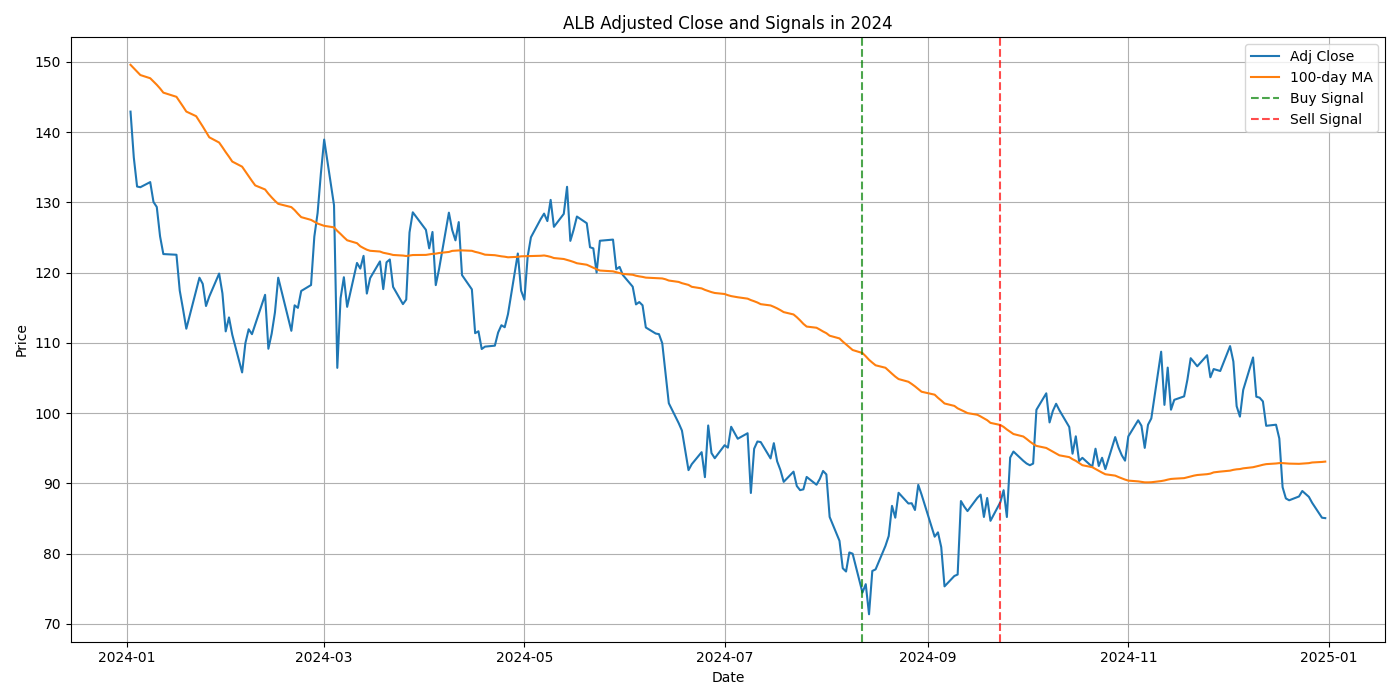
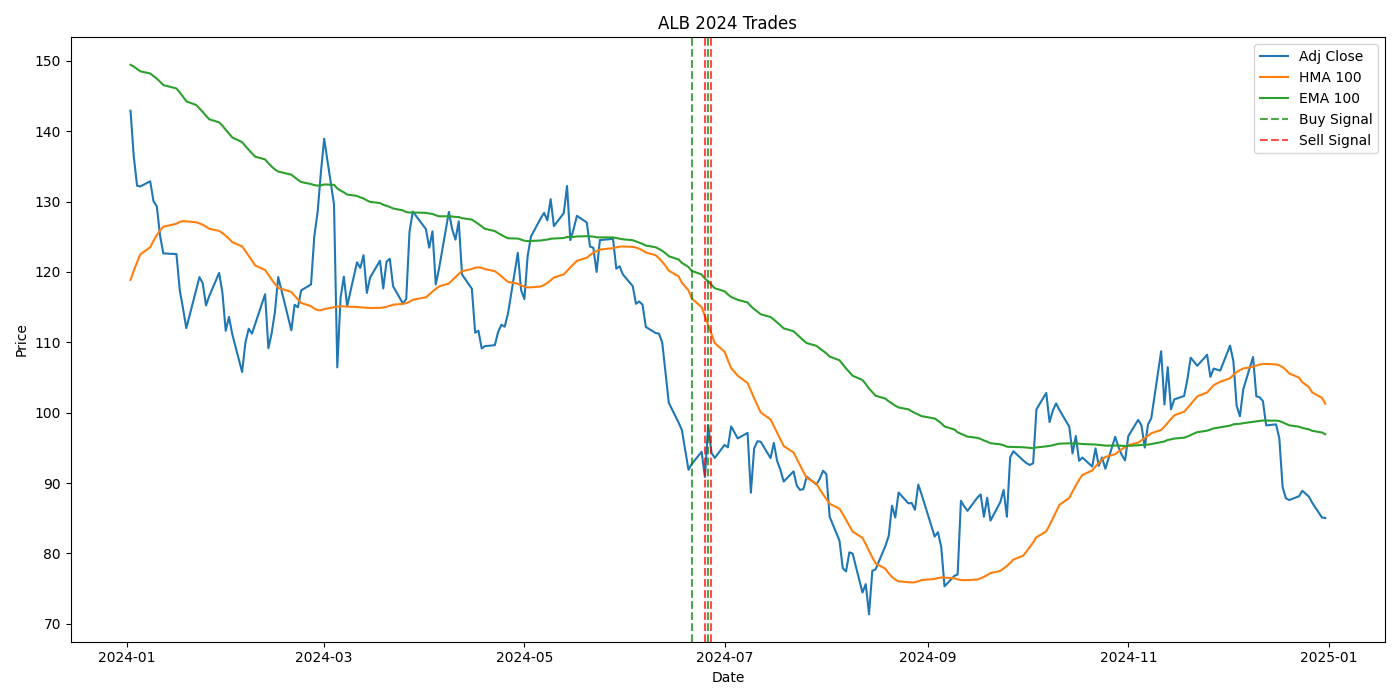
Functional

diff --git a/main.py b/main.py
@@ -73,9 +73,6 @@ def play():
         lower = sma - num_std * std
         return upper, lower
 
-    # Strong months for calendar filter
-    strong_months = {4, 11}
-
     all_trades = []
 
     # Process each stock file
@@ -140,15 +137,13 @@ def play():
             if position is None:
                 # Buy Conditions:
                 price_discount = (hma_100 - adj_close) / hma_100 if hma_100 != 0 else 0
-                cond_price = price_discount >= 0.3
+                cond_price = price_discount >= 0.10
                 cond_rsi = rsi < 30
-                cond_macd = (macd_hist > 0) and (prev_macd_hist <= 0)
-                cond_stoch = (prev_k < prev_d) and (stoch_k > stoch_d) and (stoch_k < 20)
-                cond_vol = volume > 1.5 * avg_vol
-                cond_volatility = (atr / adj_close < 0.03) and (bb_lower < adj_close < bb_upper)
-                cond_month = month in strong_months
+                cond_stoch = (prev_k < prev_d) and (stoch_k > stoch_d) and (stoch_k < 40)
+                cond_vol = volume > 1.2 * avg_vol
+                cond_volatility = (atr / adj_close < 0.05) and (bb_lower < adj_close < bb_upper)
 
-                buy_signal = all([cond_price, cond_rsi, cond_macd, cond_stoch, cond_vol, cond_volatility, cond_month])
+                buy_signal = all([cond_price,cond_volatility,cond_vol,cond_stoch,cond_rsi])
 
                 if buy_signal:
                     position = {
@@ -169,11 +164,11 @@ def play():
                     max_price = adj_close
 
                 cond_price_sell = adj_close > ema_100
-                cond_trailing_stop = adj_close < 0.95 * max_price
+                cond_trailing_stop = adj_close < 0.96 * max_price
                 cond_atr_stop = adj_close < position['Stop Loss']
-                cond_rsi_sell = rsi > 70
+                cond_rsi_sell = rsi > 65
                 cond_macd_sell = (macd_hist < 0) and (prev_macd_hist >= 0)
-                cond_max_days = holding_days > 40
+                cond_max_days = holding_days > 60
                 cond_eoy = (i == len(year_data) - 1)
 
                 sell_signal = any([
@@ -236,9 +231,32 @@ def play():
     # Compile all trades into DataFrame
     trades_df = pd.DataFrame(all_trades)
     if not trades_df.empty:
-        trades_df.sort_values('Buy Date', inplace=True)
-        trades_df.to_csv(os.path.join(results_dir, f"{theYear}_perf.csv"), index=False)
-        print(f"Saved results to {os.path.join(results_dir, f'{theYear}_perf.csv')}")
+        # Calculate total profit in % (sum of individual trade % gains)
+        total_profit_pct = trades_df['Pct Gain (%)'].sum()
+
+        # You can also calculate total number of trades and average gain per trade:
+        total_trades = len(trades_df)
+        avg_gain_pct = trades_df['Pct Gain (%)'].mean()
+
+        # Create a summary DataFrame with one row
+        summary_df = pd.DataFrame({
+            'Ticker': ['TOTAL'],
+            'Buy Date': ['-'],
+            'Buy Price': ['-'],
+            'Pct Below 100MA at Buy (%)': ['-'],
+            'Sell Date': ['-'],
+            'Sell Price': ['-'],
+            'Pct Gain (%)': [total_profit_pct],
+            'Holding Days': ['-'],
+            'Total Trades': [total_trades],
+            'Average Gain (%)': [avg_gain_pct]
+        })
+
+        # Append the summary row to the original DataFrame
+        output_df = pd.concat([trades_df, summary_df], ignore_index=True)
+
+        output_df.to_csv(os.path.join(results_dir, f"{theYear}_perf.csv"), index=False)
+        print(f"Saved results with summary to {os.path.join(results_dir, f'{theYear}_perf.csv')}")
     else:
         print("No trades found for the given year and criteria.")
 
